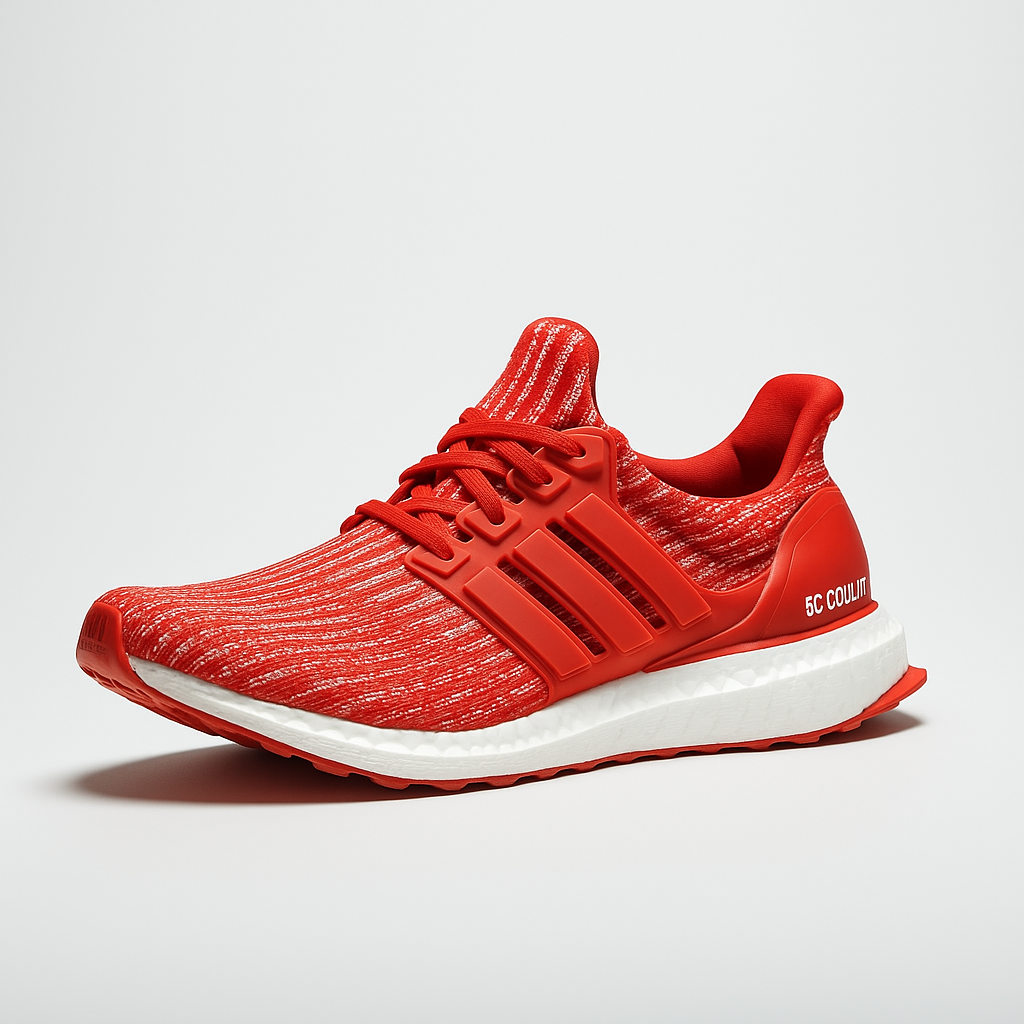
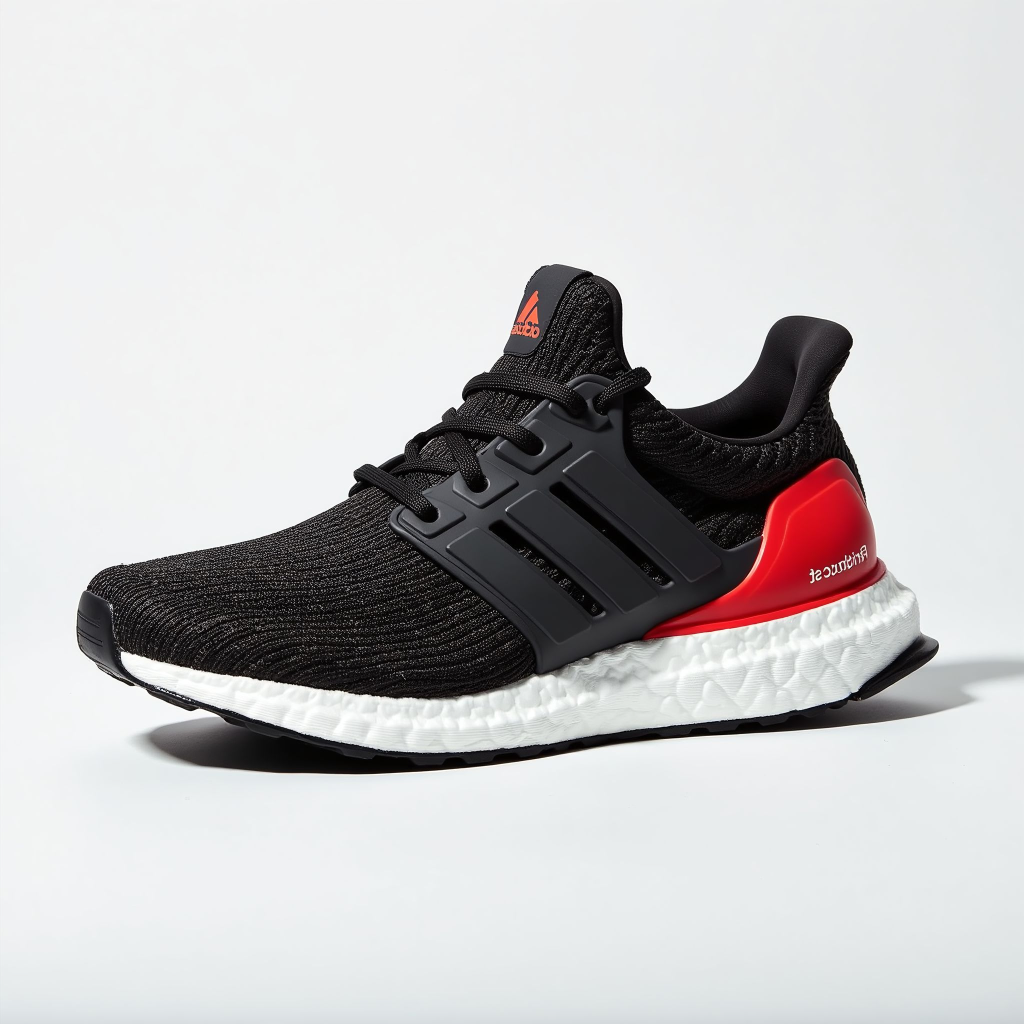
Добавлены изображения в интерфейс

Changed region(s): [[0.0312, 0.25, 1.0, 0.8125]]

diff --git a/frontend/src/windows/item_window.py b/frontend/src/windows/item_window.py
@@ -8,6 +8,7 @@ from PyQt5.QtWidgets import (
     QScrollArea,
 )
 from PyQt5.QtCore import Qt
+from PyQt5.QtGui import QPixmap
 
 from ..widgets import OverlayWidget, ShoeSizeBtnWidget, ModelVariationBtnWidget, OverlayMessageWidget
 from ..utils import get_absolute_path, show_error_window, add_class, clear_layout, normalize_item_page_data
@@ -89,7 +90,6 @@ class ItemWindow(QWidget):
         layout.setSpacing(0)
 
         self._image_container.setFixedSize(390, 390)
-        self._image_container.setStyleSheet("background-color: black")
 
         add_class(self._category_label, "small-text")
 
@@ -201,9 +201,12 @@ class ItemWindow(QWidget):
         for var_id in self._data["variations"]:
             widget = ModelVariationBtnWidget()
             widget.variation_id = var_id
-            # !!!
-            # Добавить картинку для виджета
-            # !!!
+            pixmap = QPixmap(
+                get_absolute_path(__file__, f"../images/{var_id}.png")
+            )
+            widget.image.setPixmap(
+                pixmap.scaled(60, 60, Qt.KeepAspectRatio, Qt.SmoothTransformation)
+            )
             widget.setStyleSheet("border: 1px solid #dcdcdc")
             widget.clicked.connect(self._variation_btn_handler)
             self._variation_btns.append(widget)
@@ -261,6 +264,14 @@ class ItemWindow(QWidget):
 
         self._price_label.setText(
             self._data["variations"][self._curr_variation]["price"]
+        )
+        
+        image_id = self._curr_variation
+        pixmap = QPixmap(
+            get_absolute_path(__file__, f"../images/{image_id}.png")
+        )
+        self._image_container.setPixmap(
+            pixmap.scaled(390, 390, Qt.KeepAspectRatio, Qt.SmoothTransformation)
         )
 
     def _variation_btn_handler(self):

diff --git a/frontend/src/layouts/catalog_layout.py b/frontend/src/layouts/catalog_layout.py
@@ -121,11 +121,10 @@ class CatalogLayout(QVBoxLayout):
                 clear_layout(self._items_layout)
                         
                 title = QLabel()
-                title.setText("КАТАЛОГ")
                 add_class(title, "title-text")
                 title.setFixedHeight(34)
-                
                 self._items_layout.addWidget(title, 0, 0)
+
                 if self._data is not None:
                     for i, model_data in enumerate(self._data.values()):
                         widget = CatalogItemWidget(model_data)
@@ -137,6 +136,8 @@ class CatalogLayout(QVBoxLayout):
                     self._items_layout.setRowStretch(
                         ((len(self._data) - 1) // self._curr_columns) + 2, 1
                     )
+                    title.setText("КАТАЛОГ")
+
 
     def resize_catalog(self):
         self._init_items_ui()

diff --git a/frontend/src/widgets/cart_item_widget.py b/frontend/src/widgets/cart_item_widget.py
@@ -57,7 +57,9 @@ class CartItemWidget(QWidget):
 
         image_container = QLabel()
         image_container.setFixedSize(150, 150)
-        pixmap = QPixmap(get_absolute_path(__file__, "../images/item_placeholder.png"))
+        pixmap = QPixmap(
+            get_absolute_path(__file__, f"../images/{self._item_variation}.png")
+        )
         image_container.setPixmap(
             pixmap.scaled(150, 150, Qt.KeepAspectRatio, Qt.SmoothTransformation)
         )

diff --git a/frontend/src/widgets/catalog_item_widget.py b/frontend/src/widgets/catalog_item_widget.py
@@ -25,8 +25,9 @@ class CatalogItemWidget(ClickableWidget):
         layout.setSpacing(0)
 
         image_container = QLabel()
+        image_id = self._item_data["id"]
         pixmap = QPixmap(
-            get_absolute_path(__file__, "../images/item_placeholder.png")
+            get_absolute_path(__file__, f"../images/{image_id}.png")
         )
         image_container.setPixmap(
             pixmap.scaled(190, 190, Qt.KeepAspectRatio, Qt.SmoothTransformation)
